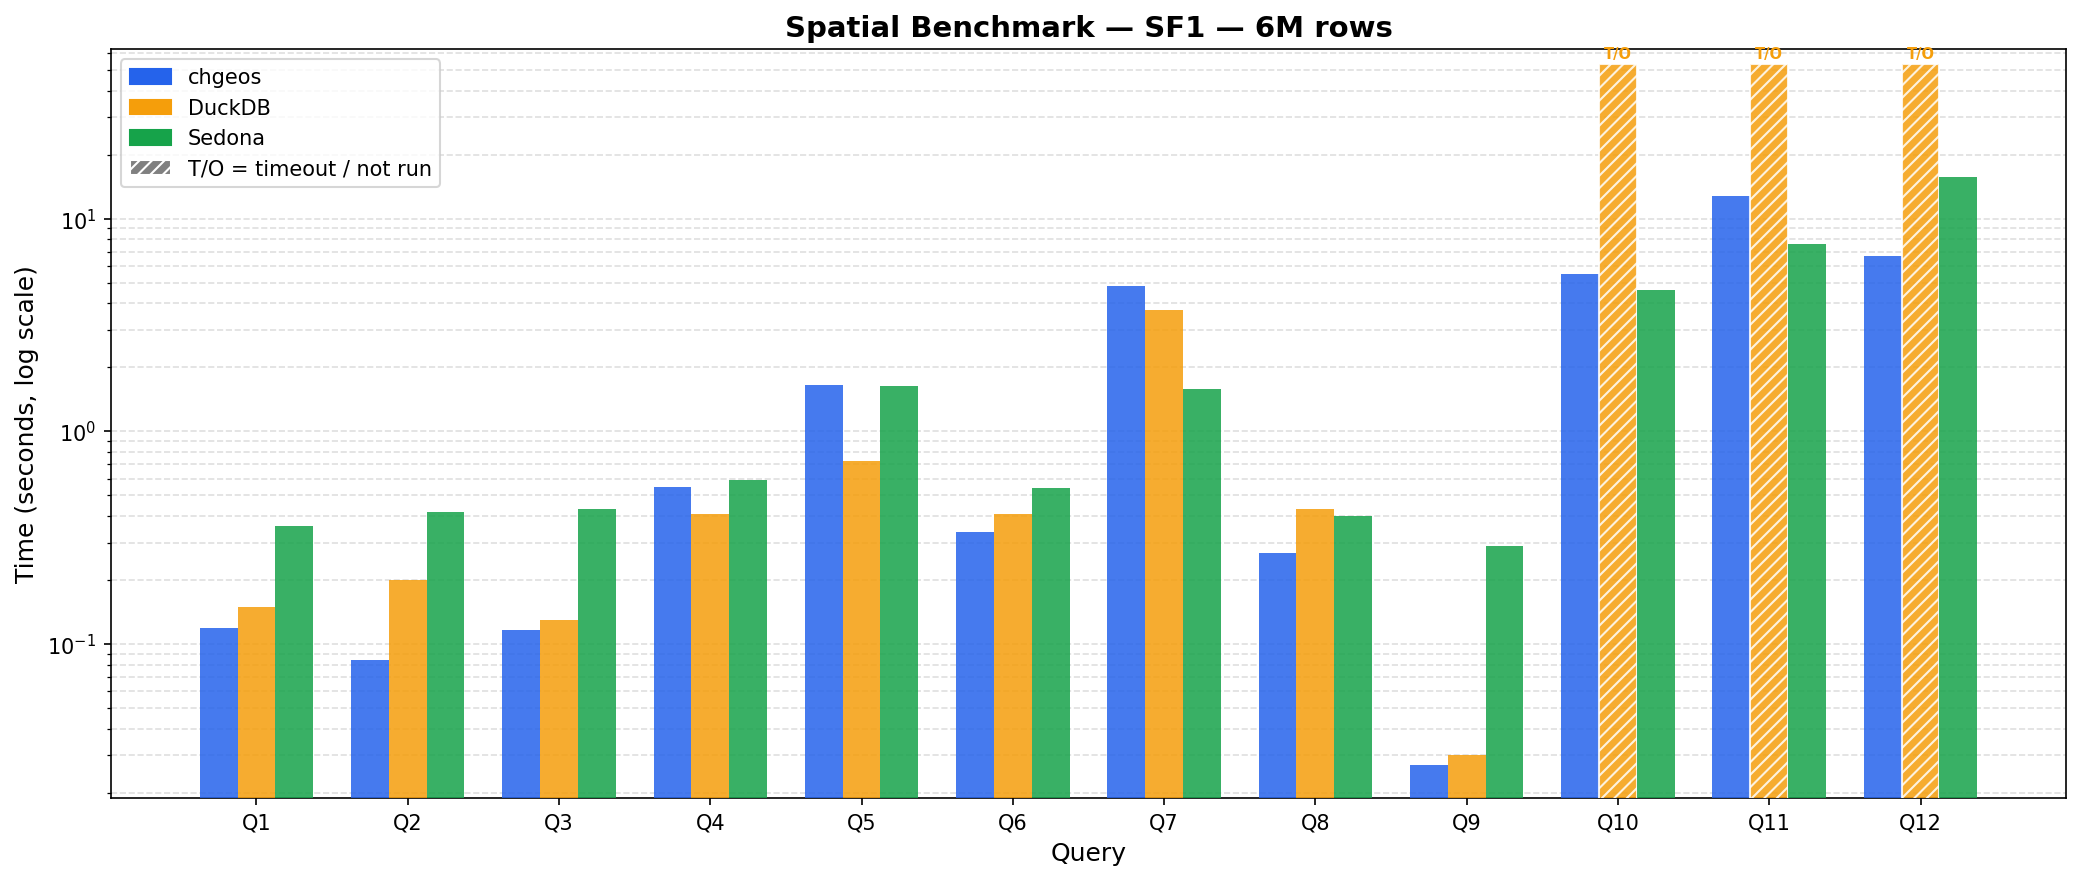
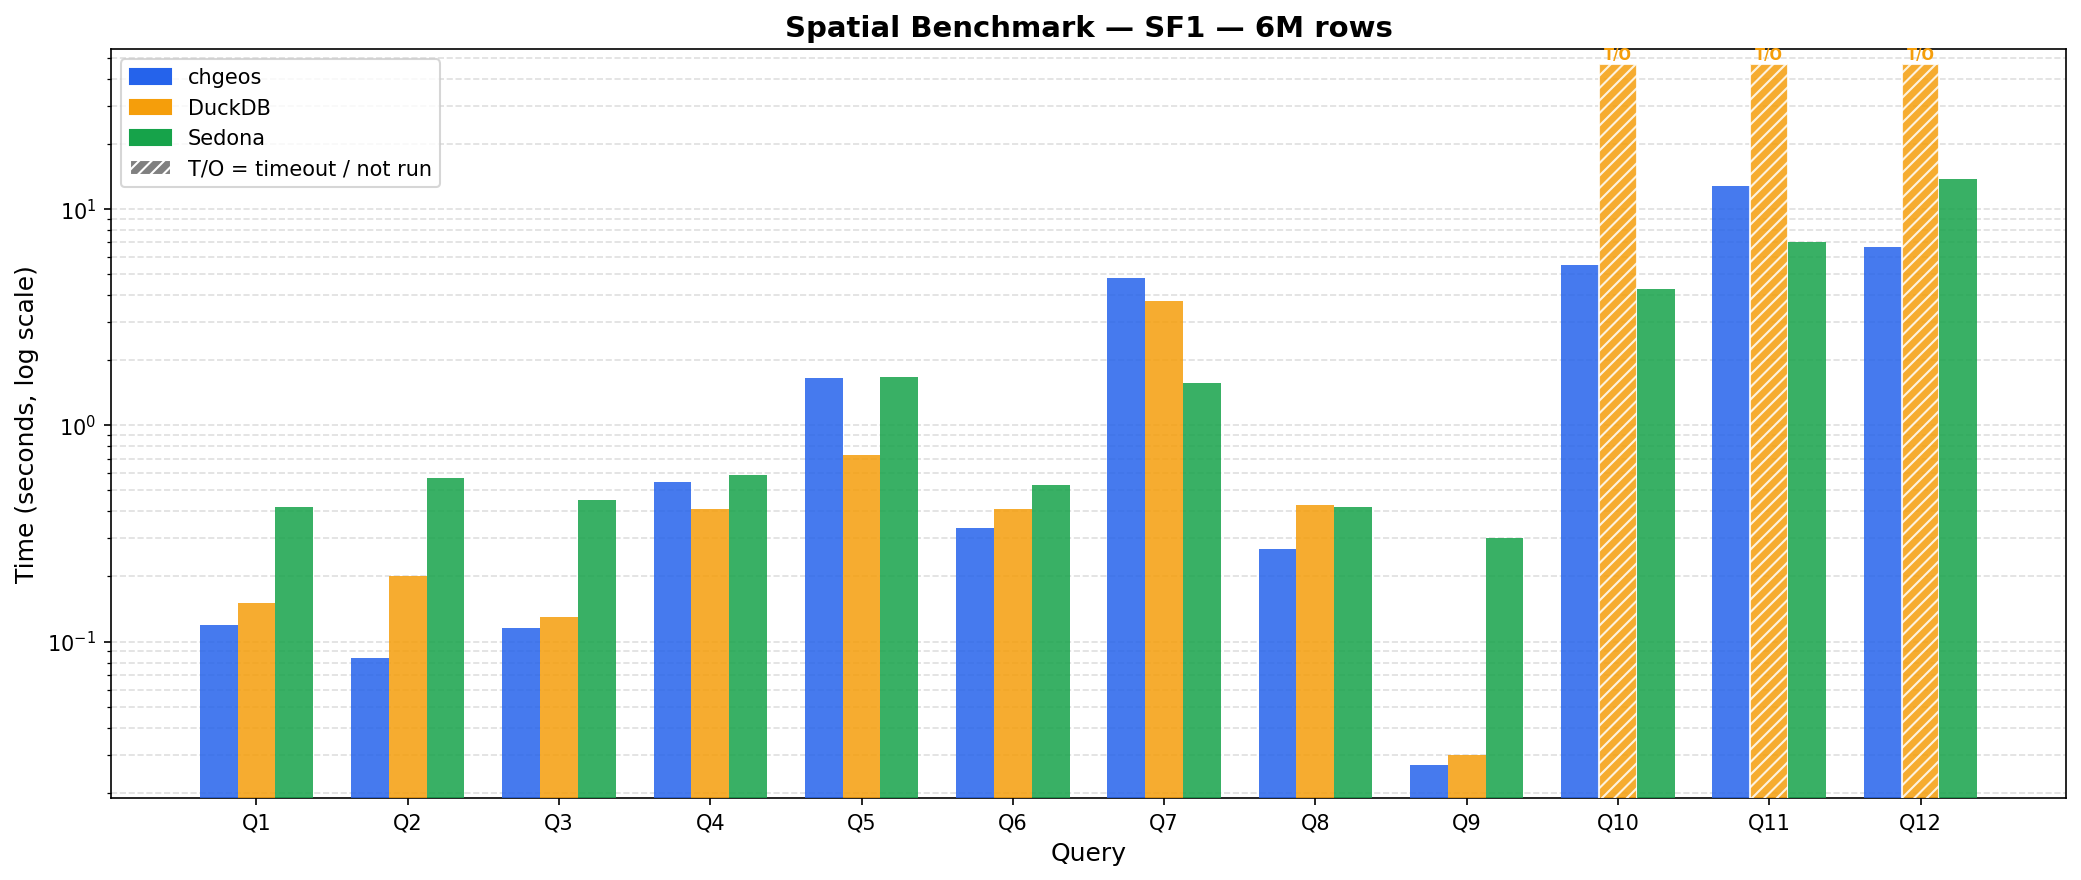
Update Sedona SF1 results to v0.3.0 (recorded 2026-04-21)
Q1: 0.36→0.42s, Q2: 0.42→0.57s, Q3: 0.43→0.45s, Q5: 1.63→1.67s,
Q8: 0.40→0.42s, Q9: 0.29→0.30s, Q10: 4.63→4.28s, Q11: 7.62→7.05s,
Q12: 15.7→13.71s. Winners unchanged: chgeos 7, DuckDB 2, Sedona 3.

diff --git a/BENCHMARK.md b/BENCHMARK.md
@@ -8,7 +8,7 @@ and Apache Sedona (SedonaDB) on the spatial benchmark suite.
 **Timeout:** 300 s (chgeos), 120 s (Sedona), 600 s (DuckDB SF10)  
 **chgeos version:** 2026-04-21 (centroid k-d tree kNN; joinBlock batch-candidates rewrite)  
 **DuckDB version:** v1.5.2  
-**Sedona version:** recorded 2026-04-21 (SF1: 2026-04-19)
+**Sedona version:** 0.3.0 (recorded 2026-04-21)
 
 Note: it's running with CraneLift optimization disabled. CraneLift fix
 https://github.com/bytecodealliance/wasmtime/pull/12841 is not in ClickHouse
@@ -22,18 +22,18 @@ yet. But it won't make _much_ difference. Probably.
 
 | Query | Description                        | chgeos   | DuckDB  | Sedona  | Winner   |
 |-------|------------------------------------|----------|---------|---------|----------|
-| Q1    | Point-in-radius filter             | 0.119 s  | 0.15 s  | 0.36 s  | chgeos   |
-| Q2    | Count trips in county polygon      | 0.084 s  | 0.20 s  | 0.42 s  | chgeos   |
-| Q3    | Monthly stats in bbox+buffer       | 0.116 s  | 0.13 s  | 0.43 s  | chgeos   |
+| Q1    | Point-in-radius filter             | 0.119 s  | 0.15 s  | 0.42 s  | chgeos   |
+| Q2    | Count trips in county polygon      | 0.084 s  | 0.20 s  | 0.57 s  | chgeos   |
+| Q3    | Monthly stats in bbox+buffer       | 0.116 s  | 0.13 s  | 0.45 s  | chgeos   |
 | Q4    | Zone distribution (top-1000 tips)  | 0.546 s  | 0.41 s  | 0.59 s  | DuckDB   |
-| Q5    | Convex hull area per customer/month| 1.660 s  | 0.73 s  | 1.63 s  | DuckDB   |
-| Q6    | Zone stats for bbox-intersect zones| 0.335 s  | 0.41 s  | 0.54 s  | chgeos   |
-| Q7    | Detour ratio (all trips)           | 4.81 s   | 3.74 s  | 1.59 s  | Sedona   |
-| Q8    | Nearby pickups per building        | 0.268 s  | 0.43 s  | 0.40 s  | chgeos   |
-| Q9    | Building conflation via IoU        | 0.027 s  | 0.03 s  | 0.29 s  | chgeos   |
-| Q10   | Zone avg duration/distance         | 5.52 s   | TIMEOUT | 4.63 s  | Sedona   |
-| Q11   | Cross-zone trip count              | 12.73 s  | TIMEOUT | 7.62 s  | Sedona   |
-| Q12   | 5 nearest buildings per trip (kNN) | 6.65 s   | TIMEOUT | 15.7 s  | chgeos   |
+| Q5    | Convex hull area per customer/month| 1.660 s  | 0.73 s  | 1.67 s  | DuckDB   |
+| Q6    | Zone stats for bbox-intersect zones| 0.335 s  | 0.41 s  | 0.53 s  | chgeos   |
+| Q7    | Detour ratio (all trips)           | 4.81 s   | 3.74 s  | 1.56 s  | Sedona   |
+| Q8    | Nearby pickups per building        | 0.268 s  | 0.43 s  | 0.42 s  | chgeos   |
+| Q9    | Building conflation via IoU        | 0.027 s  | 0.03 s  | 0.30 s  | chgeos   |
+| Q10   | Zone avg duration/distance         | 5.52 s   | TIMEOUT | 4.28 s  | Sedona   |
+| Q11   | Cross-zone trip count              | 12.73 s  | TIMEOUT | 7.05 s  | Sedona   |
+| Q12   | 5 nearest buildings per trip (kNN) | 6.65 s   | TIMEOUT | 13.71 s | chgeos   |
 
 **SF1 wins — chgeos: 7, DuckDB: 2, Sedona: 3**
 
